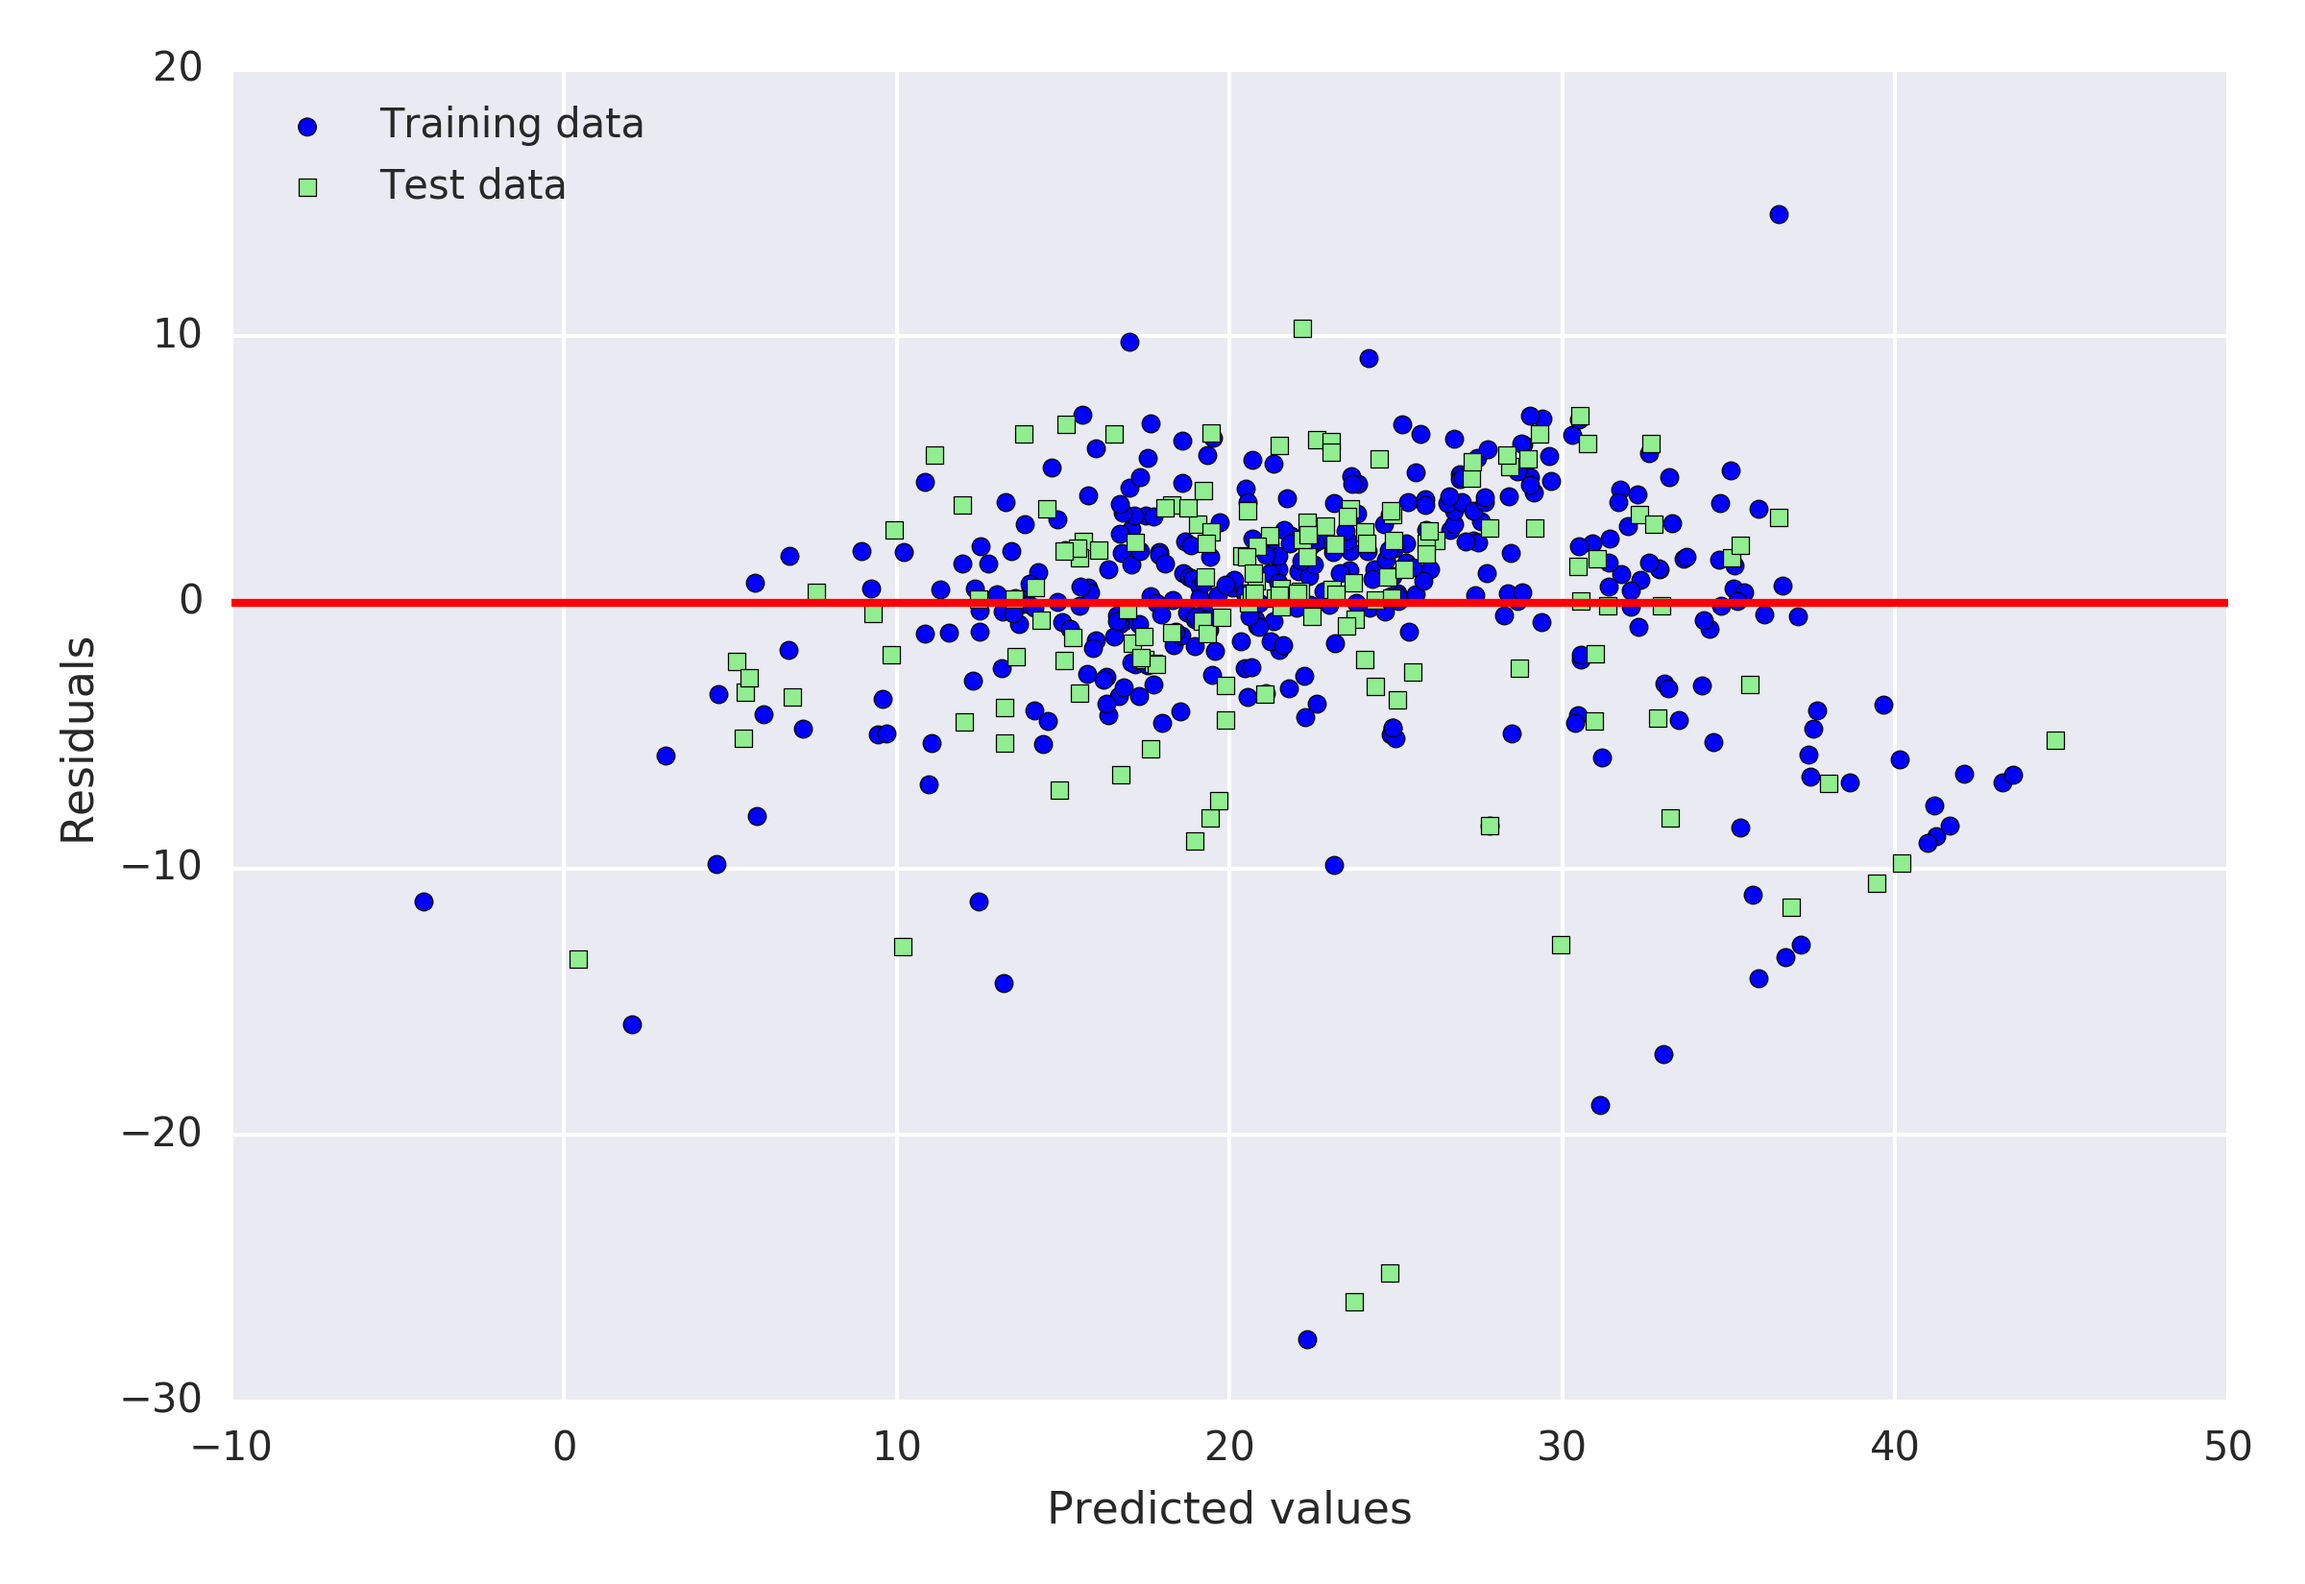
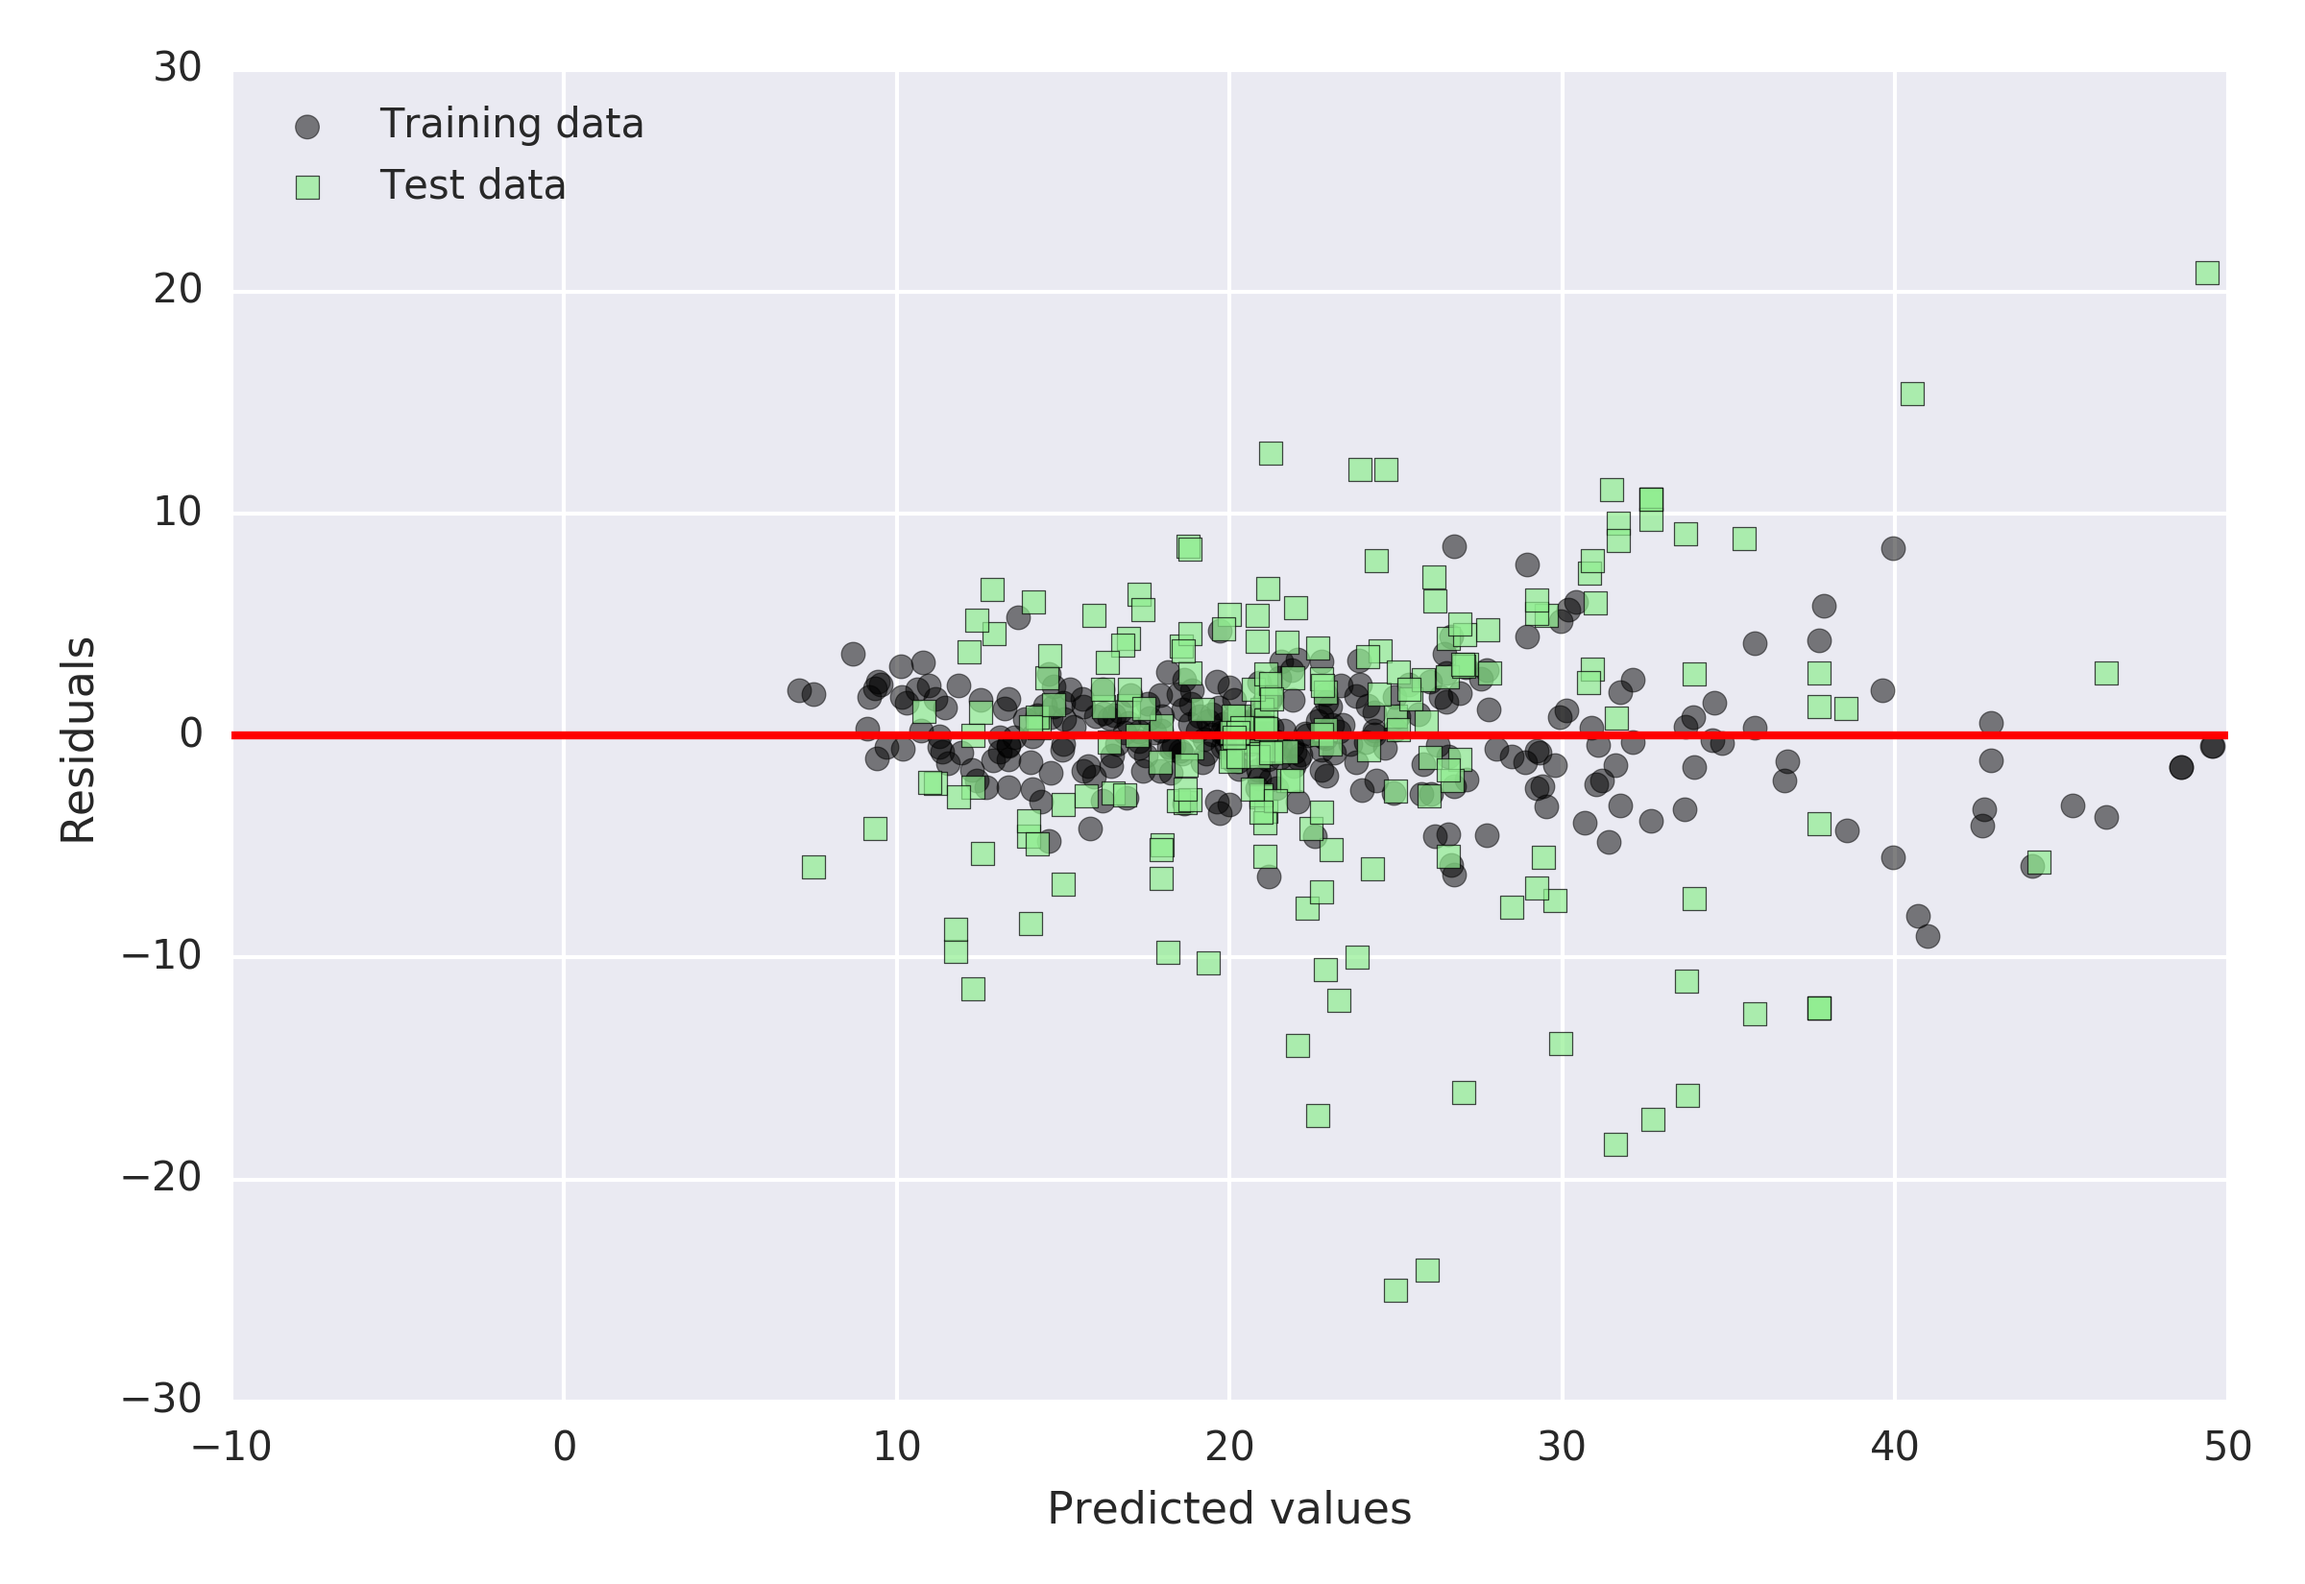
finished ch10

diff --git a/10ch_master.py b/10ch_master.py
@@ -8,8 +8,10 @@ from helpers import PL10, plot_decision_regions
 from sklearn.cross_validation import train_test_split
 from sklearn.preprocessing import StandardScaler, PolynomialFeatures
 from sklearn.linear_model import LinearRegression, RANSACRegressor
+from sklearn.tree import DecisionTreeRegressor
 from sklearn.metrics import r2_score, mean_squared_error
 from sklearn.linear_model import Ridge, ElasticNet, Lasso
+from sklearn.ensemble import RandomForestRegressor
 
 
 def exploratory_data_analysis():
@@ -235,10 +237,156 @@ def polynomial_regression():
             r2_score(y, y_lin_pred),    
             r2_score(y, y_quad_pred)))
 
+def nonlinear():
+    df = pd.read_csv('https://archive.ics.uci.edu/ml/machine-learning-databases/housing/housing.data',     
+                     header=None, sep='\\s+')    
+    df.columns = ['CRIM', 'ZN', 'INDUS', 'CHAS',     
+                  'NOX', 'RM', 'AGE', 'DIS', 'RAD',     
+                  'TAX', 'PTRATIO', 'B', 'LSTAT', 'MEDV']
+    X = df[['LSTAT']].values
+    y = df['MEDV'].values    
+        
+    regr = LinearRegression()    
+        
+    # create quadratic features    
+    quadratic = PolynomialFeatures(degree=2)    
+    cubic = PolynomialFeatures(degree=3)    
+    X_quad = quadratic.fit_transform(X)    
+    X_cubic = cubic.fit_transform(X)    
+        
+    # fit features    
+    X_fit = np.arange(X.min(), X.max(), 1)[:, np.newaxis]    
+        
+    regr = regr.fit(X, y)    
+    y_lin_fit = regr.predict(X_fit)    
+    linear_r2 = r2_score(y, regr.predict(X))    
+        
+    regr = regr.fit(X_quad, y)    
+    y_quad_fit = regr.predict(quadratic.fit_transform(X_fit))    
+    quadratic_r2 = r2_score(y, regr.predict(X_quad))    
+        
+    regr = regr.fit(X_cubic, y)    
+    y_cubic_fit = regr.predict(cubic.fit_transform(X_fit))    
+    cubic_r2 = r2_score(y, regr.predict(X_cubic))    
+        
+        
+    # plot results    
+    plt.scatter(X, y, label='training points', color='lightgray')    
+        
+    plt.plot(X_fit, y_lin_fit,     
+             label='linear (d=1), $R^2=%.2f$' % linear_r2,     
+             color='blue',     
+             lw=2,     
+             linestyle=':')    
+        
+    plt.plot(X_fit, y_quad_fit,     
+             label='quadratic (d=2), $R^2=%.2f$' % quadratic_r2,    
+             color='red',     
+             lw=2,    
+             linestyle='-')    
+        
+    plt.plot(X_fit, y_cubic_fit,     
+             label='cubic (d=3), $R^2=%.2f$' % cubic_r2,    
+             color='green',     
+             lw=2,     
+             linestyle='--')    
+        
+    plt.xlabel('% lower status of the population [LSTAT]')    
+    plt.ylabel('Price in $1000\'s [MEDV]')    
+    plt.legend(loc='upper right')    
+    plt.tight_layout()
+    plt.savefig(PL10 + 'polyhouse_example.png', dpi=300)
+    plt.close()
+    
+    X = df[['LSTAT']].values
+    y = df['MEDV'].values
+    
+    # transform features
+    X_log = np.log(X)
+    y_sqrt = np.sqrt(y)
+    
+    # fit features
+    X_fit = np.arange(X_log.min()-1, X_log.max()+1, 1)[:, np.newaxis]
+    regr = regr.fit(X_log, y_sqrt)
+    y_lin_fit = regr.predict(X_fit)
+    linear_r2 = r2_score(y_sqrt, regr.predict(X_log))
+    
+    # plot results
+    plt.scatter(X_log, y_sqrt, label='training points', color='lightgray')
+    plt.plot(X_fit, y_lin_fit, 
+             label='linear (d=1), $R^2=%.2f$' % linear_r2, 
+             color='blue', 
+             lw=2)
+    
+    plt.xlabel('log(% lower status of the population [LSTAT])')
+    plt.ylabel('$\sqrt{Price \; in \; \$1000\'s [MEDV]}$')
+    plt.legend(loc='lower left')
+    plt.tight_layout()
+    plt.savefig(PL10 + 'transform_example.png', dpi=300)
 
+def random_forest():
+    df = pd.read_csv('https://archive.ics.uci.edu/ml/machine-learning-databases/housing/housing.data',     
+                     header=None, sep='\\s+')    
+    df.columns = ['CRIM', 'ZN', 'INDUS', 'CHAS',     
+                  'NOX', 'RM', 'AGE', 'DIS', 'RAD',     
+                  'TAX', 'PTRATIO', 'B', 'LSTAT', 'MEDV']
+    X = df[['LSTAT']].values
+    y = df['MEDV'].values
+    
+    tree = DecisionTreeRegressor(max_depth=3)
+    tree.fit(X, y)
+    sort_idx = X.flatten().argsort()
+    lin_regplot(X[sort_idx], y[sort_idx], tree)
+    plt.xlabel('% lower status of the population [LSTAT]')
+    plt.ylabel('Price in $1000\'s [MEDV]')
+    plt.savefig(PL10 + 'tree_regression.png', dpi=300)
+    plt.close()
+    
+    y = df['MEDV'].values
+    X_train, X_test, y_train, y_test = train_test_split(
+        X, y, test_size=0.4, random_state=1)
+    
+    forest = RandomForestRegressor(n_estimators=1000, 
+                                   criterion='mse', 
+                                   random_state=1, 
+                                   n_jobs=-1)
+    forest.fit(X_train, y_train)
+    y_train_pred = forest.predict(X_train)
+    y_test_pred = forest.predict(X_test)
+    print('MSE train: %.3f, test: %.3f' % (
+            mean_squared_error(y_train, y_train_pred),
+            mean_squared_error(y_test, y_test_pred)))
+    print('R^2 train: %.3f, test: %.3f' % (
+            r2_score(y_train, y_train_pred),
+            r2_score(y_test, y_test_pred)))
+    
+    plt.scatter(y_train_pred,      
+                y_train_pred - y_train,     
+                c='black',     
+                marker='o',     
+                s=35,    
+                alpha=0.5,    
+                label='Training data')    
+    plt.scatter(y_test_pred,      
+                y_test_pred - y_test,     
+                c='lightgreen',     
+                marker='s',     
+                s=35,    
+                alpha=0.7,    
+                label='Test data')    
+    plt.xlabel('Predicted values')    
+    plt.ylabel('Residuals')    
+    plt.legend(loc='upper left')    
+    plt.hlines(y=0, xmin=-10, xmax=50, lw=2, color='red')    
+    plt.xlim([-10, 50])    
+    plt.tight_layout()
+    plt.savefig(PL10 + 'slr_residuals.png', dpi=300)
+    
 if __name__ == "__main__":
     # import pdb; pdb.set_trace()
     # exploratory_data_analysis()
     # ransac()
     # performance()
-    polynomial_regression()
+    # polynomial_regression()
+    # nonlinear()
+    random_forest()

diff --git a/11ch_master.py b/11ch_master.py
@@ -1,0 +1,62 @@
+import pandas as pd
+import numpy as np
+import matplotlib as mpl
+mpl.use('Agg')
+import matplotlib.pyplot as plt
+from helpers import PL11, plot_decision_regions
+from sklearn.datasets import make_blobs
+from sklearn.cluster import KMeans
+
+
+def k_means():
+    X, y = make_blobs(n_samples=150, 
+                  n_features=2, 
+                  centers=3, 
+                  cluster_std=0.5, 
+                  shuffle=True, 
+                  random_state=0)
+    plt.scatter(X[:,0], X[:,1], c='white', marker='o', s=50)
+    plt.grid()
+    plt.tight_layout()
+    plt.savefig(PL11 + 'spheres.png', dpi=300)
+    plt.close()
+    km = KMeans(n_clusters=3, 
+                init='random', 
+                n_init=10, 
+                max_iter=300,
+                tol=1e-04,
+                random_state=0)
+    y_km = km.fit_predict(X)
+    plt.scatter(X[y_km==0,0], 
+                X[y_km==0,1], 
+                s=50, 
+                c='lightgreen', 
+                marker='s', 
+                label='cluster 1')
+    plt.scatter(X[y_km==1,0], 
+                X[y_km==1,1], 
+                s=50, 
+                c='orange', 
+                marker='o', 
+                label='cluster 2')
+    plt.scatter(X[y_km==2,0], 
+                X[y_km==2,1], 
+                s=50, 
+                c='lightblue', 
+                marker='v', 
+                label='cluster 3')
+    plt.scatter(km.cluster_centers_[:,0], 
+                km.cluster_centers_[:,1], 
+                s=250, 
+                marker='*', 
+                c='red', 
+                label='centroids')
+    plt.legend()
+    plt.grid()
+    plt.tight_layout()
+    plt.savefig(PL11 + 'centroids.png', dpi=300)
+
+
+if __name__ == "__main__":
+    # import pdb; pdb.set_trace()
+    k_means()

diff --git a/helpers.py b/helpers.py
@@ -14,6 +14,7 @@ PL7 = '/home/ubuntu/workspace/machine_learning/ch7_png/'
 PL8 = '/home/ubuntu/workspace/machine_learning/ch8_png/'
 PL9 = '/home/ubuntu/workspace/machine_learning/ch9_png/'
 PL10 = '/home/ubuntu/workspace/machine_learning/ch10_png/'
+PL11 = '/home/ubuntu/workspace/machine_learning/ch11_png/'
 
 def get_data():
     df = pd.read_csv("http://mlr.cs.umass.edu/ml/machine-learning-databases/iris/iris.data", header=None)
